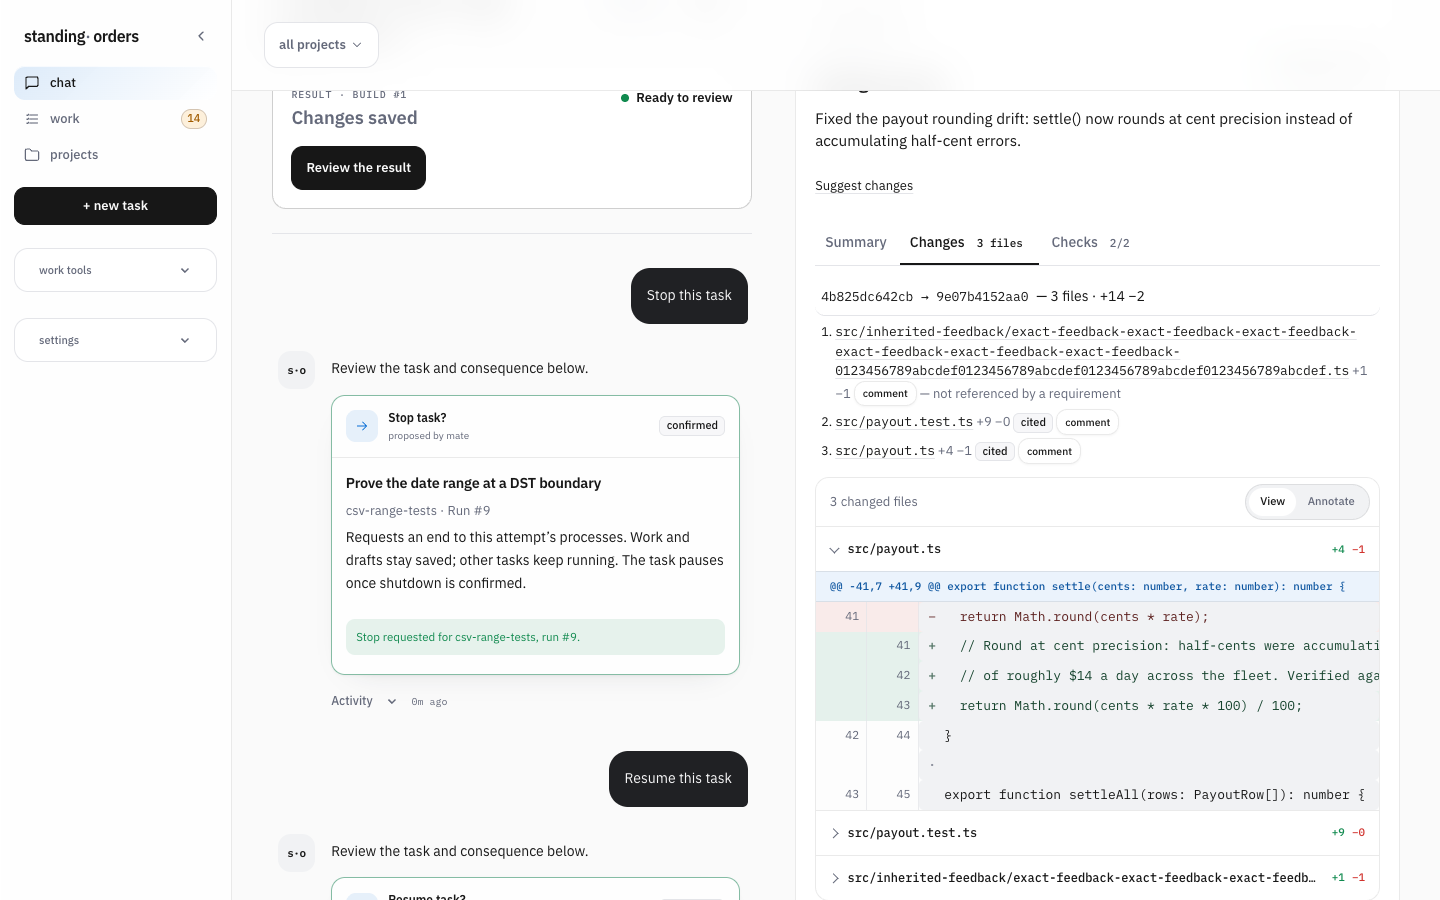
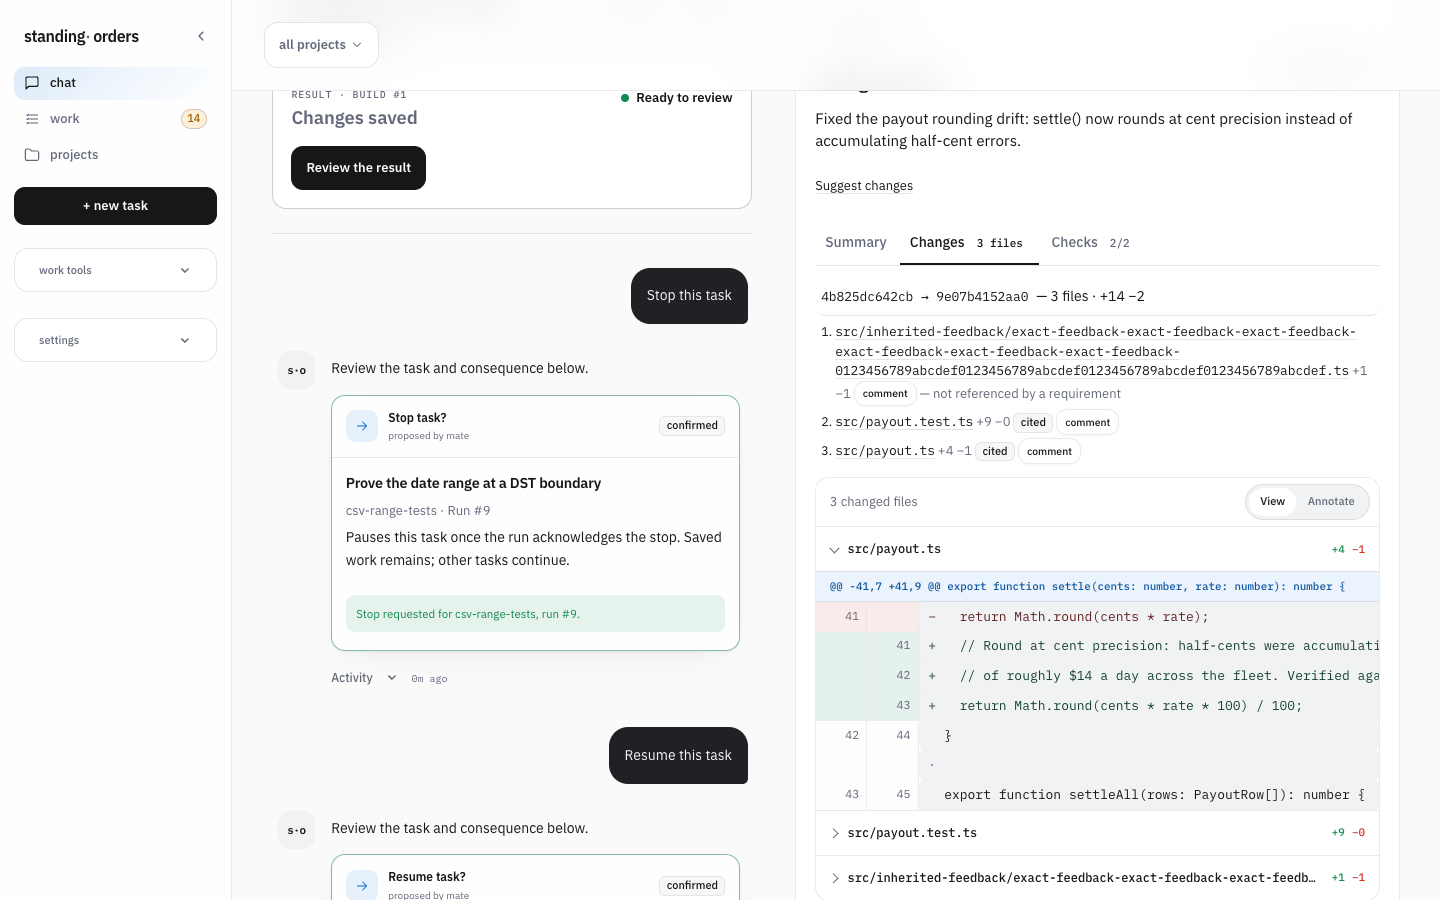
revise-chat-stop-resume-20260915-fix-1-from-1-annotation: Let a user stop the current task execution and resume eligible…
Reproduced the clipped 390px revision view (the reader's last message sat under the fixed composer because the chat revision redirect had no anchor) and fixed it: chat revisions now return to their #latest receipt, the phone keeps room beneath a raised keyboard composer and follows it when the reader was at the end, and the stop confirmation is two sentences that still say saved work remains, other tasks continue and the pause waits for acknowledgement. Drafts, exact-run checks and same-task lineage unchanged. Before/after desktop and phone captures saved.

diff --git a/src/mobile-viewport.test.ts b/src/mobile-viewport.test.ts
@@ -33,3 +33,35 @@ test("soft-keyboard spacing follows viewport shrink, not focus or pinch zoom; Sp
     expect(root.hasAttribute("data-mobile-keyboard")).toBe(false);
   } finally { await window.happyDOM.close(); }
 });
+
+test("a reader at the end of the thread follows the composer up when the keyboard opens, and only then", async () => {
+  const window = new Window({ width: 390, height: 844 });
+  try {
+    const viewport = new window.EventTarget();
+    Object.assign(viewport, { height: 844, offsetTop: 0, scale: 1 });
+    Object.defineProperty(window, "visualViewport", { value: viewport });
+    let update = () => {};
+    window.requestAnimationFrame = ((fn: () => void) => { update = fn; return 1; }) as typeof window.requestAnimationFrame;
+    window.document.body.innerHTML = '<div class="composer"><textarea></textarea></div>';
+    const root = window.document.documentElement;
+    Object.defineProperty(root, "scrollHeight", { value: 1520, configurable: true });
+    const scrolls: number[] = [];
+    window.scrollTo = ((options: { top: number }) => { scrolls.push(options.top); }) as typeof window.scrollTo;
+    window.eval(MOBILE_VIEWPORT_SCRIPT);
+    const box = window.document.querySelector("textarea")!;
+    const resize = (height: number) => { Object.assign(viewport, { height }); viewport.dispatchEvent(new window.Event("resize")); update(); };
+    // Reading the middle of the thread: the keyboard must not move the page.
+    Object.defineProperty(window, "scrollY", { value: 100, configurable: true });
+    box.focus(); update(); resize(490);
+    expect(root.hasAttribute("data-mobile-keyboard")).toBe(true);
+    expect(scrolls).toEqual([]);
+    resize(844); box.blur(); update();
+    // At the end of the thread: one instant scroll keeps the newest message above the raised composer.
+    Object.defineProperty(window, "scrollY", { value: 676, configurable: true });
+    box.focus(); update(); resize(490);
+    expect(scrolls).toEqual([1520]);
+    // Further viewport reports while open (panning, height nudges) do not scroll again.
+    resize(480);
+    expect(scrolls).toEqual([1520]);
+  } finally { await window.happyDOM.close(); }
+});

diff --git a/src/serve.ts b/src/serve.ts
@@ -5626,8 +5626,12 @@ export function createDecisionServer(options: ServeOptions): Server {
       }
       if (outcome.ok && outcome.kind === "review" && outcome.taskId !== null) {
         const proposal = store.getMateProposal(id)!;
+        // A revision confirmed here returns to its receipt: the newest
+        // reply, whose confirmed card names the revision and links to the
+        // plan. Landing at the top left that message under the phone's
+        // fixed composer (build #1604 feedback).
         return redirect(response, proposal.payload["operation"] === "revise"
-          ? revisionDestination(outcome.taskId, taskChatHref(outcome.taskId))
+          ? chatReturnWithLatest(revisionDestination(outcome.taskId, taskChatHref(outcome.taskId)))
           : `${taskChatHref(outcome.taskId)}&result=${Number(proposal.payload["run"])}#request-changes`);
       }
       if (outcome.ok && outcome.kind === "task_action" && outcome.taskId !== null) {
@@ -11015,6 +11019,10 @@ const STYLE = `
        keyboard; hardware-keyboard focus and pinch zoom keep it available. */
     html[data-mobile-keyboard] .tabbar { display: none; }
     html[data-mobile-keyboard] .chat-workspace .composer { bottom: calc(var(--keyboard-inset, 0px) + .5rem); }
+    /* The raised composer needs the same room beneath the thread as the
+       resting one, or the newest message hides behind it while typing. */
+    html[data-mobile-keyboard] main:has(.chat-workspace) { padding-bottom: calc(var(--keyboard-inset, 0px) + var(--composer-height, 4rem) + 1.5rem); }
+    html[data-mobile-keyboard] main:has(.chat-workspace) :is(input, textarea, button, summary, a) { scroll-margin-block: 6rem calc(var(--keyboard-inset, 0px) + var(--composer-height, 4rem) + 1.5rem); }
     html[data-mobile-keyboard] .chat-new-update-holder { bottom: calc(var(--keyboard-inset, 0px) + var(--composer-height, 4rem) + 1rem); }
     html[data-mobile-keyboard] .sticky-actions { bottom: .5rem; }
     .work-tools > summary, .work-tools-menu a, .work-views a { min-height: 2.75rem; }

diff --git a/src/chat-task-actions.ts b/src/chat-task-actions.ts
@@ -4,7 +4,9 @@ import { requestTaskStop, taskControlOf, type StopRequest } from "./task-control
 import { authorizePlanUnderMode } from "./plan-auto.js";
 
 export const CHAT_TASK_ACTIONS = {
-  stop: { label: "Stop task", detail: "Requests an end to this attempt’s processes. Work and drafts stay saved; other tasks keep running. The task pauses once shutdown is confirmed." },
+  // Build #1604 feedback: one short consequence that still says saved work
+  // remains, other tasks continue, and the pause waits for acknowledgement.
+  stop: { label: "Stop task", detail: "Pauses this task once the run acknowledges the stop. Saved work remains; other tasks continue." },
   resume: { label: "Review resume", detail: "Opens password confirmation to lift this stop’s hold and continue from saved work. Other holds and approval requirements still apply." },
   retry: { label: "Try again", detail: "Queues another attempt. Existing approvals and holds still apply." },
   plan: { label: "Plan first", detail: "Requests a plan. Building still requires approval." },

diff --git a/src/mobile-viewport.ts b/src/mobile-viewport.ts
@@ -12,8 +12,14 @@ export const MOBILE_VIEWPORT_SCRIPT = String.raw`
     if(!editing)baseline=window.innerHeight;
     var gap=Math.max(0,window.innerHeight-viewport.height-viewport.offsetTop);
     var open=phone.matches&&viewport.scale===1&&editing&&(gap>120||baseline-viewport.height>120);
+    // A reader at the end of a thread stays there when the keyboard rises:
+    // the page grows room beneath the raised composer, so the newest
+    // message must follow it up instead of hiding behind it.
+    var opening=open&&!root.hasAttribute('data-mobile-keyboard');
+    var atEnd=opening&&window.innerHeight+window.scrollY>=root.scrollHeight-120;
     root.toggleAttribute('data-mobile-keyboard',Boolean(open));
     root.style.setProperty('--keyboard-inset',open?Math.round(gap)+'px':'0px');
+    if(atEnd)window.scrollTo({top:root.scrollHeight,behavior:'instant'});
   }
   function schedule(){if(!frame)frame=requestAnimationFrame(update);}
   viewport.addEventListener('resize',schedule);

diff --git a/src/serve.test.ts b/src/serve.test.ts
@@ -11851,7 +11851,7 @@ describe("the review cockpit (Priority 5): a ranked, verified projection of comp
     await post(cookie, `/r/${run}/comment`, { csrf, note: "A later note, not in this revision." });
     const confirmed = await post(cookie, `/chat/proposal/${revise.id}/confirm`, { csrf });
     const child = revisionIdOf(confirmed.headers.get("location"));
-    expect(confirmed.headers.get("location")).toBe(`/chat?task=${root}&revision=${child}`);
+    expect(confirmed.headers.get("location")).toBe(`/chat?task=${root}&revision=${child}#latest`);
     expect(store.revisionLineageOf(child, now)).toMatchObject({ root, sourceTask: root, sourceRun: run });
     expect(store.liveDiffComments(run).map(one => one.note)).toEqual(["A later note, not in this revision."]);
     expect(approvalOf(store.getScope(child)).approved).toBe(false);

diff --git a/docs/CHAT_STOP_RESUME_2026-09-15.md b/docs/CHAT_STOP_RESUME_2026-09-15.md
@@ -82,3 +82,45 @@ A sixth `serve` case (`opening a project: outside the ceiling refused`) failed o
 The unchanged approved full verifier was not run by the builder; it runs once at the machine's final gate for this repaired candidate. Remaining gap: `scripts/workspace-result-proof.mjs` (an older package's browser proof) still looks for "2 notes ready"; it is not part of the verifier and was left outside this criterion repair.
 
 Repair receipt: builder Claude Opus 5 (`claude-opus-5`), no subagents, no live model calls, zero operator interventions. Started 2026-09-15T15:54:55Z (steering note) and finished about 2026-09-15T16:02Z, roughly 7 minutes including two full `serve.test.ts` runs. No commit, push, branch switch, migration of the installed database, or provider/permission change.
+
+## Repair 2 (build #1604 comment 292): the clipped phone revision and a shorter stop confirmation
+
+Branch `standing-orders/revise-chat-stop-resume-20260915-fix-1-from-1-annotation`, uncommitted on top of `93aa844`.
+
+**Reproduced.** Evidence 792 (`before/phone-revision.png`) is the 390px chat after confirming a same-task revision. The confirmation redirected to `/chat?task=…&revision=…` with no anchor, so the page opened at the top: the reader's own last message ("Apply the saved feedback", 703–760px) sat under the fixed composer (724–784px) and the assistant's receipt — the confirmed card with **Revision created. Review and approve it to start — review & start in chat** — was entirely below the fold (776–1311px). The dark shape peeking from behind the composer was that message bubble. Geometry was measured with a throwaway Playwright script; the same page on desktop (`before/desktop-revision.png`) showed the plan first with the receipt cut off at the fold, without an overlay because the desktop composer stays in the document flow.
+
+**Fixed.**
+
+- A revision confirmed from chat returns to `…&revision=<child>#latest`, the same receipt anchor every other chat confirmation uses. The newest reply, its card and its plan link land readable above the composer on both viewports; the plan itself is one link away and unchanged. The result-panel form road (`/r/:run/revise`) keeps its existing destination.
+- While a phone keyboard is open the chat page now grows the same room beneath the raised composer that it has beneath the resting one, and controls keep a matching scroll margin. The viewport script keeps a reader who was at the end of the thread at the end when the keyboard opens — one instant scroll on that transition only, never while reading the middle of a thread or while the keyboard is already up. `src/mobile-viewport.test.ts` covers both branches.
+- The stop confirmation is two sentences: **Pauses this task once the run acknowledges the stop. Saved work remains; other tasks continue.** (94 characters, was 142 and three sentences). It still says saved work remains, other tasks continue and the pause waits for acknowledgement; the card still names the exact task, title and run, and the chat-surface task control shares the string.
+
+Drafts, the exact-run stamp and run checks, replay protection and same-task lineage are unchanged; the journey asserts each again.
+
+**Journey additions** (`scripts/chat-stop-resume-journey.mjs`): on arrival at the revision the receipt is the thread's last element, fully above the composer's top, with its plan link visible; a simulated keyboard (the reported visual viewport shrunk by 336px while the composer is focused, so the page's own script raises the composer) keeps the receipt's end and link above the raised composer with the draft intact; the confirmation consequence is at most two sentences and 110 characters and names other tasks and acknowledgement. Desktop now captures the refusal and the revision too. The simulated keyboard is not a physical device, Safari, or a live model.
+
+| Command | Result |
+| --- | --- |
+| `npm run typecheck` | Passed. |
+| `npx vitest run src/chat-task-actions.test.ts src/mate-doors.test.ts src/mate.test.ts src/task-control-console.test.ts src/task-control.test.ts src/chat-continuity.test.ts src/chat-polish.test.ts src/mobile-viewport.test.ts` | 8 files, 105 tests passed. |
+| `npx vitest run src/serve.test.ts` | 309 tests passed, including the updated chat revision destination assertion. |
+| `node scripts/chat-stop-resume-journey.mjs --capture` | 72 assertions passed; wrote the screenshots below. |
+| `node scripts/chat-stop-resume-journey.mjs` | 72 assertions passed in the durable non-capturing mode. |
+
+The unchanged approved full verifier was not run by the builder; it runs once at the machine's final gate for this exact candidate. Remaining gap from repair 1 stands: `scripts/workspace-result-proof.mjs` is outside the verifier and untouched.
+
+| Before | After | What changed |
+| --- | --- | --- |
+| [phone revision](../evidence/chat-stop-resume-2026-09-15/before/phone-revision.png) | [phone revision](../evidence/chat-stop-resume-2026-09-15/phone-revision.png) | Receipt and plan link readable above the composer instead of a bubble clipped behind it. |
+| — | [phone revision, typing](../evidence/chat-stop-resume-2026-09-15/phone-revision-typing.png) | Raised composer with the draft; receipt still above it (simulated keyboard). |
+| [desktop revision](../evidence/chat-stop-resume-2026-09-15/before/desktop-revision.png) | [desktop revision](../evidence/chat-stop-resume-2026-09-15/desktop-revision.png) | Receipt in view rather than cut at the fold. |
+| [desktop stop confirmation](../evidence/chat-stop-resume-2026-09-15/before/desktop-stop-confirm.png) | [desktop stop confirmation](../evidence/chat-stop-resume-2026-09-15/desktop-stop-confirm.png) | Two-sentence consequence. |
+| [390px long confirmation](../evidence/chat-stop-resume-2026-09-15/before/phone-stop-confirm-long.png) | [390px long confirmation](../evidence/chat-stop-resume-2026-09-15/phone-stop-confirm-long.png) | Same, with the long unbroken title still wrapping. |
+| [390px refusal and draft](../evidence/chat-stop-resume-2026-09-15/before/phone-refusal-draft.png) | [390px refusal and draft](../evidence/chat-stop-resume-2026-09-15/phone-refusal-draft.png) | Unchanged refusal; draft still present. |
+| — | [desktop refusal and draft](../evidence/chat-stop-resume-2026-09-15/desktop-refusal-draft.png) | Desktop stale-card refusal with the unsent draft (new capture; the state itself is unchanged). |
+
+The other before captures (`before/desktop-empty.png`, `before/desktop-stopping.png`, `before/desktop-result.png`, `before/phone-resume-password.png`) are the reviewed build's; their after versions are regenerated and differ only where the shorter copy or nothing at all appears. `before/browser-report.json` is the prior assertion list; `browser-report.json` is the current one.
+
+Not changed, on purpose: the previous message scrolling under the top bar on arrival at `#latest` is ordinary thread behaviour, not an overlay over the newest message or a control. The desktop landing now follows the phone's receipt anchor for one consistent chat return; if the plan-first landing is preferred on desktop, that is a product choice to raise, not a defect.
+
+Repair 2 receipt: builder Claude Opus 5 (`claude-opus-5`), no subagents, zero live model calls (the browser provider is the scripted fixture), zero operator interventions. Comment recorded 2026-09-15T16:16:26Z; work ran from about 16:17Z to 16:32Z, roughly 15 minutes including one serve suite run and four browser journeys. Builder corrections along the way: an over-strict "whole message visible" check for the typing state (the receipt is taller than the space above a raised composer, so the check now requires its end and link) and a first keyboard simulation by attribute alone, which the page's own viewport script undid on the screenshot's resize; the simulation now shrinks the reported visual viewport instead. No commit, push, branch switch, installed-database migration, or provider/permission change.
